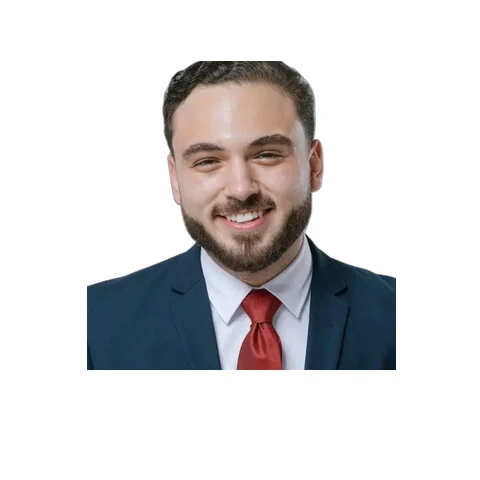
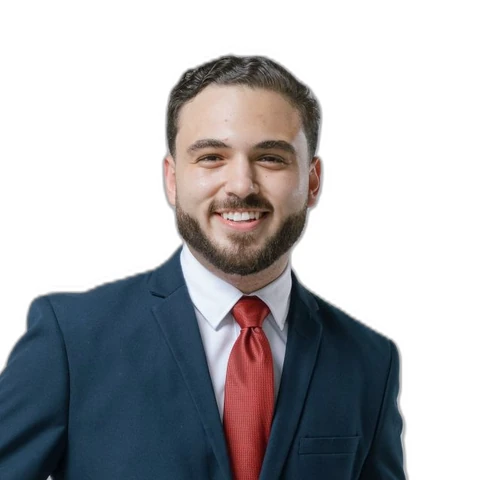
Fix portrait crops and brighten masthead

diff --git a/styles.css b/styles.css
@@ -300,13 +300,13 @@ h3 {
   overflow: hidden;
   display: grid;
   place-items: center;
-  border-bottom: 3px solid var(--gold-dark);
+  border-bottom: 3px solid #a85a00;
   background:
-    radial-gradient(ellipse at 50% 50%, rgba(120, 73, 28, 0.68) 0%, rgba(42, 24, 14, 0.82) 49%, transparent 76%),
-    linear-gradient(180deg, #24170f 0%, #0e0a07 58%, #1c1009 100%);
+    radial-gradient(ellipse at 50% 52%, rgba(255, 191, 38, 0.28) 0%, rgba(255, 213, 113, 0.14) 42%, transparent 73%),
+    linear-gradient(180deg, #f3e8d1 0%, #dfcca8 100%);
   box-shadow:
-    inset 0 -12px 28px rgba(0, 0, 0, 0.42),
-    0 10px 24px rgba(45, 23, 5, 0.32);
+    inset 0 -10px 24px rgba(128, 69, 7, 0.09),
+    0 8px 20px rgba(78, 40, 4, 0.2);
 }
 
 .masthead-rays {
@@ -317,9 +317,9 @@ h3 {
   pointer-events: none;
   background: repeating-conic-gradient(
     from -7deg at 50% 50%,
-    rgba(255, 200, 74, 0.38) 0deg 2.5deg,
+    rgba(203, 112, 0, 0.3) 0deg 2.5deg,
     transparent 2.5deg 14deg,
-    rgba(255, 224, 143, 0.16) 14deg 16deg,
+    rgba(255, 183, 24, 0.2) 14deg 16deg,
     transparent 16deg 29deg
   );
   mask-image: radial-gradient(ellipse at center, black 0%, rgba(0, 0, 0, 0.74) 29%, transparent 69%);
@@ -351,23 +351,23 @@ h3 {
     linear-gradient(
       108deg,
       transparent 0% 42%,
-      rgba(255, 255, 225, 0.9) 48%,
+      rgba(255, 255, 226, 0.96) 48%,
       transparent 54% 100%
     ) 185% 0 / 270% 100%,
     linear-gradient(
       180deg,
-      #fff1a8 0%,
-      #f6c43f 30%,
-      #d98a00 57%,
-      #8b4100 100%
+      #fff4a6 0%,
+      #ffd94d 24%,
+      #ffbc13 58%,
+      #e99400 100%
     ) 0 0 / 100% 100%;
   -webkit-background-clip: text;
   background-clip: text;
-  -webkit-text-stroke: clamp(1px, 0.014em, 2px) #713000;
+  -webkit-text-stroke: clamp(1px, 0.014em, 2px) #a55300;
   text-shadow:
-    0.055em 0.065em 0 #592600,
-    0 0.14em 0.17em rgba(0, 0, 0, 0.48),
-    0 0 0.2em rgba(239, 166, 31, 0.18);
+    0.055em 0.065em 0 #a64e00,
+    0 0.14em 0.17em rgba(113, 55, 0, 0.28),
+    0 0 0.2em rgba(255, 185, 23, 0.2);
   animation: masthead-shine 38s ease-in-out infinite;
 }
 

diff --git a/index.html b/index.html
@@ -99,7 +99,7 @@
                 >
                   <span class="ticket-icon" aria-hidden="true">f</span>
                   <span>
-                    <small>Message him on Facebook:</small>
+                    <small>Message the Movie Master on Facebook:</small>
                     <strong>facebook.com/robert.cravens.7</strong>
                   </span>
                 </a>
@@ -109,7 +109,7 @@
                 >
                   <span class="ticket-icon ticket-envelope" aria-hidden="true">✉</span>
                   <span>
-                    <small>Send him an email:</small>
+                    <small>Send the Movie Master an email:</small>
                     <strong>rcravens60@gmail.com</strong>
                   </span>
                 </a>
@@ -686,14 +686,14 @@
             >
               <span class="ticket-icon" aria-hidden="true">f</span>
               <span>
-                <small>Message him on Facebook:</small>
+                <small>Message the Movie Master on Facebook:</small>
                 <strong>facebook.com/robert.cravens.7</strong>
               </span>
             </a>
             <a class="ticket-link ticket-email" href="mailto:rcravens60@gmail.com">
               <span class="ticket-icon ticket-envelope" aria-hidden="true">✉</span>
               <span>
-                <small>Send him an email:</small>
+                <small>Send the Movie Master an email:</small>
                 <strong>rcravens60@gmail.com</strong>
               </span>
             </a>

diff --git a/CREDITS.md b/CREDITS.md
@@ -10,7 +10,7 @@ permission.
 Customer portraits are real stock photographs from Pexels. They are used as
 illustrative portraits under the [Pexels license](https://www.pexels.com/license/).
 
-- Gabriel W.: [Professional headshot of a smiling man](https://www.pexels.com/photo/professional-headshot-of-a-smiling-man-38677835/)
+- Gabriel W.: [Professional man in a blue suit smiling](https://www.pexels.com/photo/professional-man-in-blue-suit-smiling-portrait-38677836/)
 - Josephina B.: [Professional portrait of a smiling woman in a studio](https://www.pexels.com/photo/professional-portrait-of-smiling-woman-in-studio-38197025/)
 - Torrin W.: [Professional headshot of a smiling businessman](https://www.pexels.com/photo/professional-headshot-of-smiling-businessman-30004315/)
 - Sabrina C.: [Professional portrait of a smiling middle-aged woman](https://www.pexels.com/photo/professional-portrait-of-smiling-middle-aged-woman-29405854/)
